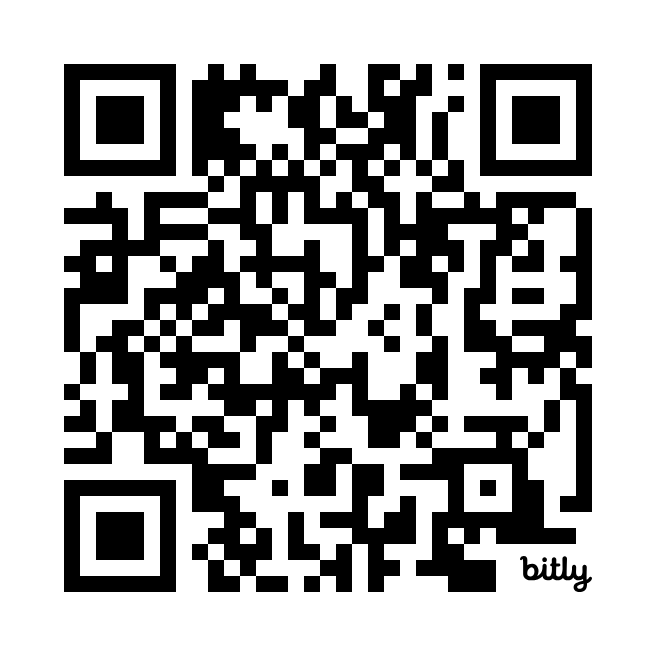
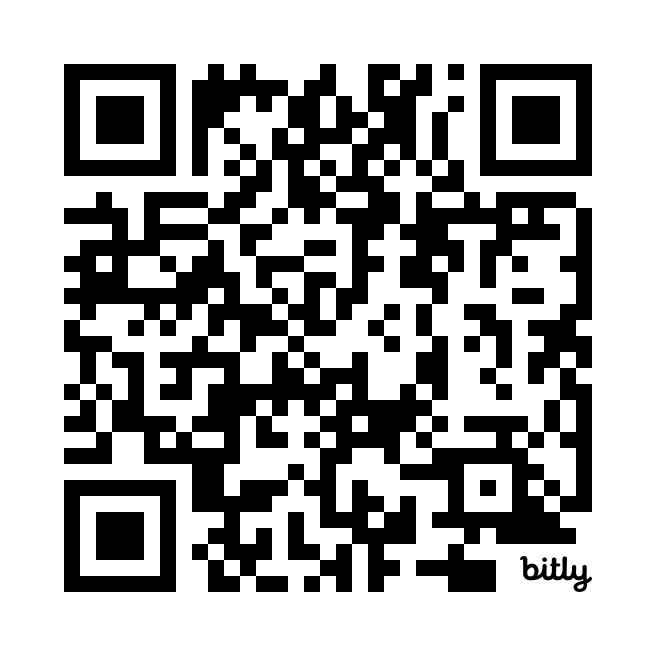
update README

diff --git a/README.md b/README.md
@@ -24,7 +24,7 @@ Note : L’application Webfauna (preview) est installée en parallèle de l’
 
 <img src="images/qrcode.png" width="200"/>
 
-https://bit.ly/3VgbdQ1
+https://bit.ly/3Wd5BoT
 
 2. Un message de mise en garde peut s'afficher, confirmer le téléchargement "Télécharger quand même". Ce message s'affiche uniquement car le fichier est un exécutable mais il ne comporte aucun danger.
 
